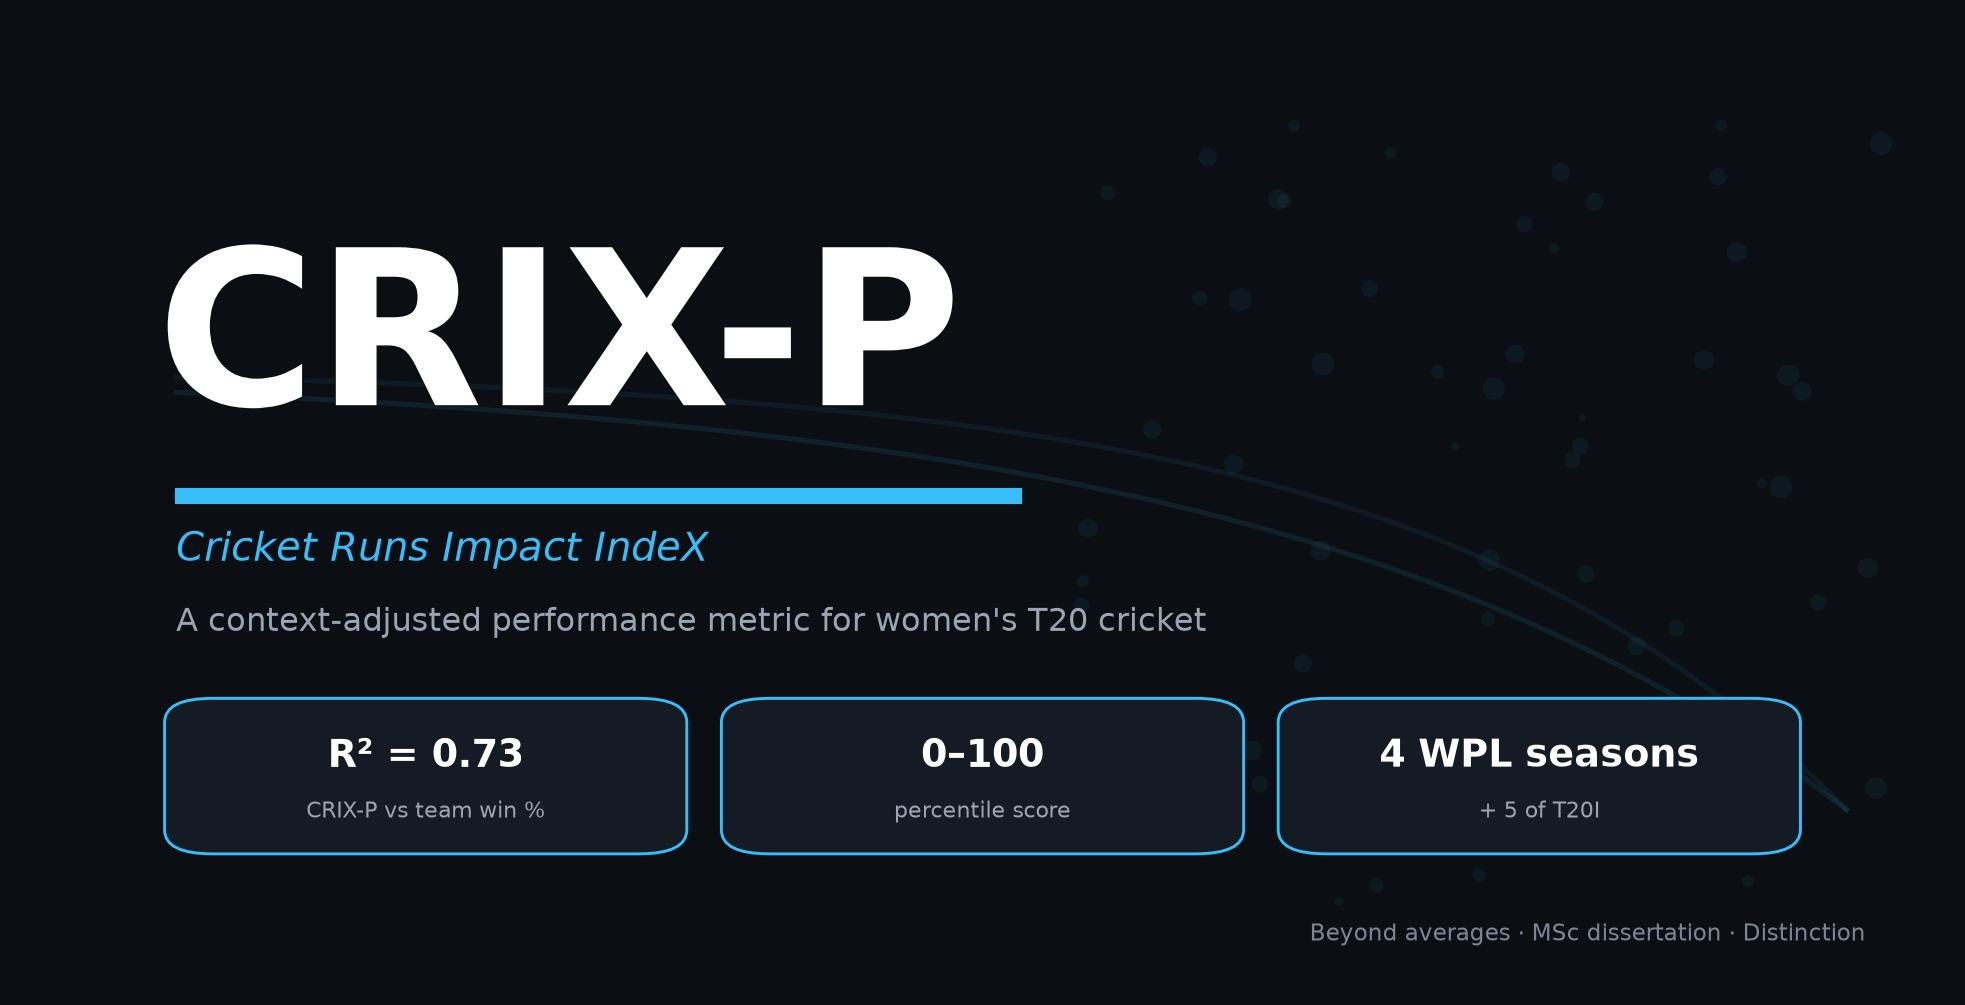
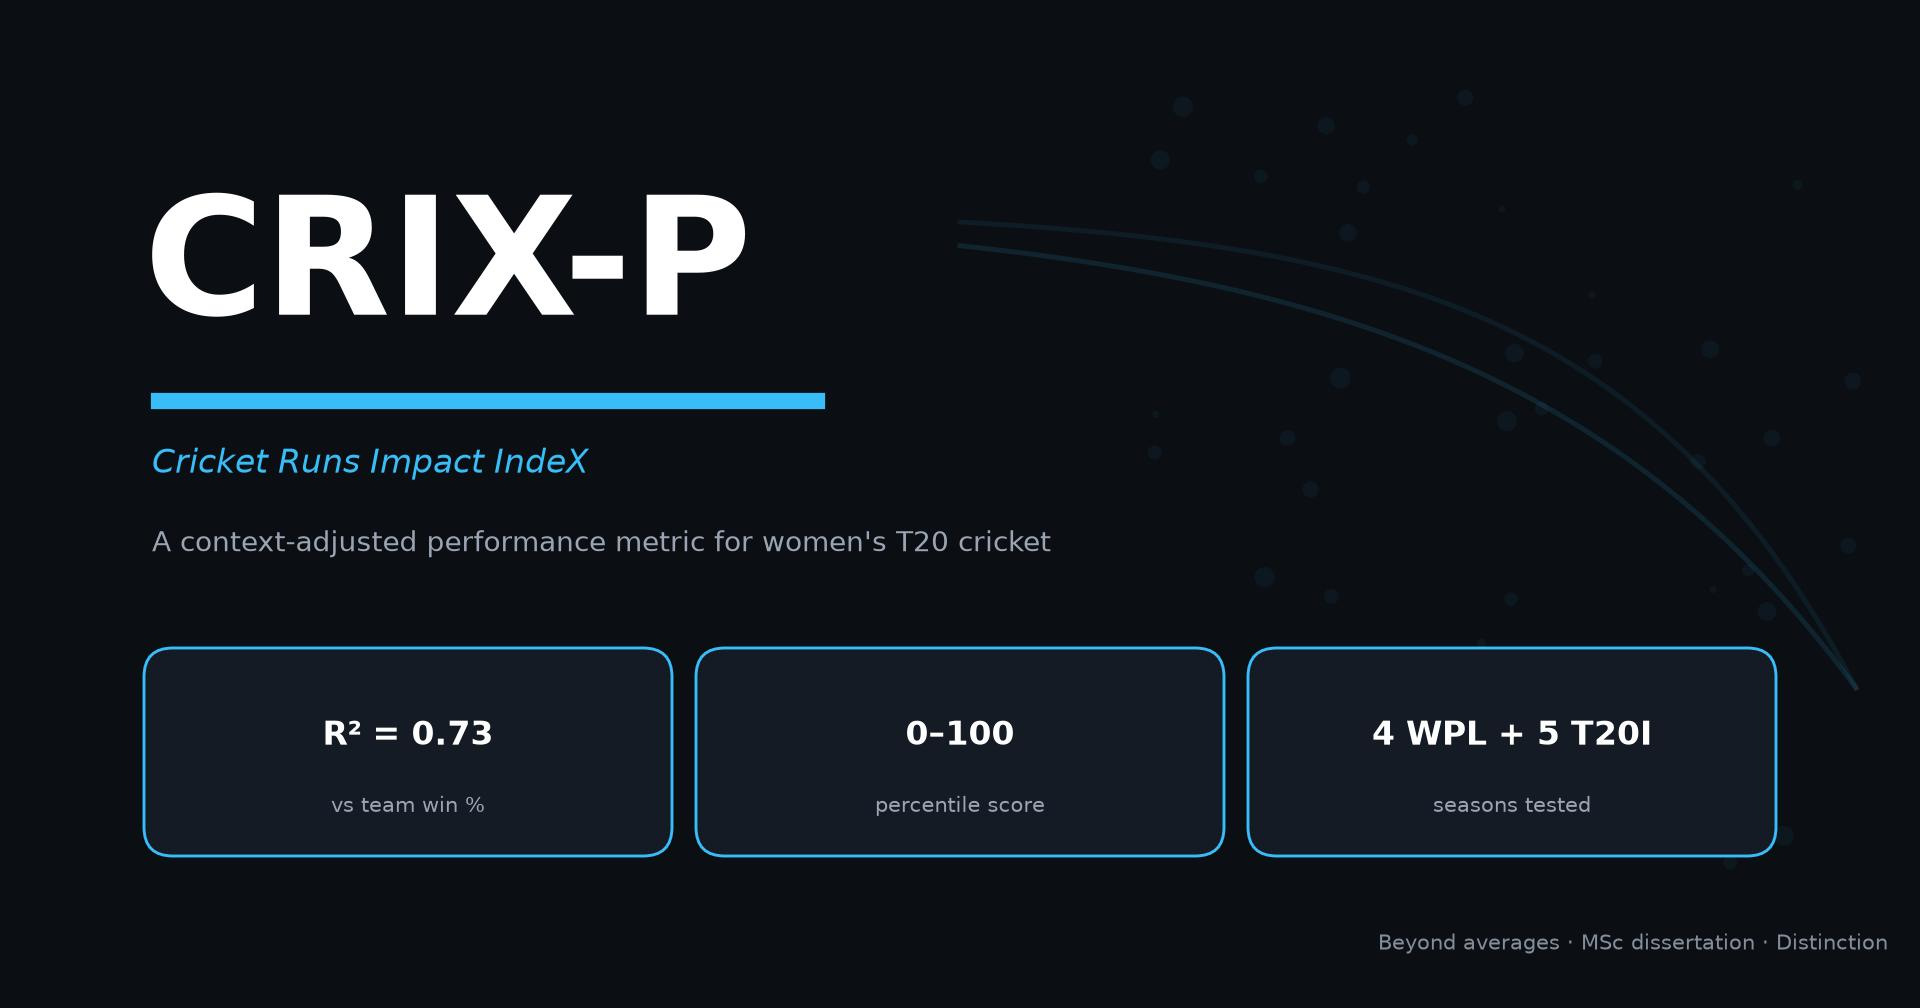
CRIX-P post: add dissertation figures, expand Prendergast story, fix cover clipping

diff --git a/site/content/cricket/crix-p-context-adjusted-cricket-metric.md b/site/content/cricket/crix-p-context-adjusted-cricket-metric.md
@@ -58,6 +58,12 @@ Wickets get the same treatment, and this is where it gets fun. A wicket isn't "a
 
 The model puts real numbers on that: in the WPL data, an early wicket cost about **12 runs** of expected total, and that fell to **under 3 runs** by the final overs. A bowling average treats all of those as one wicket. CRIX-P treats a top-order scalp in the 4th over as the far bigger deal it actually is.
 
+<figure class="chart-figure">
+  <img src="/charts/cricket/crixp_wicket_cost.png" alt="Bar chart of the average resource-adjusted run value of a wicket by over in the WPL. It falls steadily from about 12.3 runs in the first over to about 2 runs in the 20th, coloured by powerplay, middle and death phases.">
+  <figcaption>What a wicket is really worth, over by over. A dismissal in the powerplay costs four to six times more expected runs than one at the death, yet a bowling average counts them all the same.
+  <span class="chart-source">CRIX-P, all four WPL seasons pooled.</span></figcaption>
+</figure>
+
 ## Being good versus being decisive
 
 Run value tells you how *well* someone played. It doesn't quite tell you how much they *mattered*. A brilliant cameo in a game that's already lost is high quality but low impact.
@@ -65,6 +71,14 @@ Run value tells you how *well* someone played. It doesn't quite tell you how muc
 So I added a second number: **win probability added**, again lifted from baseball. For every ball, how much did the batting team's chance of winning go up or down? A single in the last over of a tied chase can be worth a mountain of win probability; the same single in a rout is worth almost nothing. This is how CRIX-P rewards players who show up in the moments that decide matches.
 
 Two numbers, then: **quality** (how good, per ball, in context) and **WPA** (how much it moved real games). They measure genuinely different things, which is the point.
+
+For the win-probability engine to be trustworthy, its predicted win chance has to match what actually happens. It does: when I line the model's predicted probability against the real win rate across hundreds of match situations, they track each other closely, in both innings.
+
+<figure class="chart-figure">
+  <img src="/charts/cricket/crixp_wp_calibration.png" alt="Two calibration plots, first and second innings, showing the model's fitted win-probability curve against the empirical win rate across score ratios. The orange empirical points hug the blue fitted S-curve in both panels.">
+  <figcaption>The win-probability model against reality. The curve is the model; the dots are what actually happened. When the model says 70%, teams won about 70% of the time.
+  <span class="chart-source">CRIX-P win-probability calibration, fitted across five women's T20 competitions.</span></figcaption>
+</figure>
 
 ## Don't get fooled by small samples
 
@@ -90,17 +104,37 @@ A clever formula proves nothing on its own. So I put CRIX-P through a five-part 
 
 **It tracks winning, strongly.** Add up a team's CRIX-P and line it against how often that team actually won: an R-squared of **0.73** in the WPL, beating a traditional strike-rate-and-economy model (0.63). In the international data it hit 0.90. For a player metric, tracking team success that tightly is about the best face-check you can ask for.
 
+<figure class="chart-figure">
+  <img src="/charts/cricket/crixp_win_pct.png" alt="Horizontal bar chart of R-squared for explaining team win percentage. CRIX-P tops it at about 0.73, above a combined batting strike rate and bowling economy model (0.63), bowling economy alone (0.56), and single traditional stats lower down.">
+  <figcaption>How well each metric explains team win percentage in the WPL. CRIX-P's combined score beats every traditional measure, including a model that uses batting strike rate and bowling economy together.
+  <span class="chart-source">CRIX-P vs traditional baselines, WPL team-seasons.</span></figcaption>
+</figure>
+
 **It passes the eye test.** The players the metric crowns are the players the sport already crowns. Across four WPL seasons, the official Player-of-the-Series winners all landed near the very top of their groups: Nat Sciver-Brunt 1st, Sophie Devine 1st, Hayley Matthews 2nd. If your fancy metric had those names buried in mid-table, you'd know something was broken.
 
 **But it's noisy, and I say so.** Split a season's data in half at random and the two halves only agree modestly (reliability around 0.3). T20 seasons are short, a handful of big deliveries move a score a lot, and bowling is especially jumpy year to year. CRIX-P catches real signal, but with real noise on top. That's exactly why the reliability label exists, and why I pitch this as a flashlight for finding players worth a closer look, not a final verdict.
 
 ## The player it found: Orla Prendergast
 
-My favourite result isn't a number, it's a name. Orla Prendergast, an Ireland all-rounder, was nowhere near the top of the 2024 run-scoring or wicket charts. On the traditional leaderboards she's easy to miss.
+My favourite result isn't a number, it's a name. Orla Prendergast is an Ireland all-rounder, 22 years old in 2024, playing for a team that doesn't get much airtime and isn't among the Test nations. If you scanned the 2024 run charts or wicket charts for the women's international year, you'd skim right past her. The volume just isn't eye-catching when your side plays fewer, lower-profile fixtures.
 
-On CRIX-P, she came out at the **top for both batting and bowling.** Why? Because her contributions came in moments that mattered, including 80 off 51 and two wickets in Ireland's first ever T20I win over England. A context-aware metric sees the value in that. A run tally doesn't.
+CRIX-P saw her differently. Among all T20I top-order batters in 2024 she ranked **3rd**, and among all T20I bowlers she ranked **7th**. Top-ten in the world on *both* sides of the ball, in the same year.
 
-That's the whole pitch for CRIX-P in one player: it surfaces the people whose real influence hides behind modest-looking totals. In women's cricket especially, where analytical coverage is thin and talent can go unseen, a tool that points a scout toward "look harder at her" feels genuinely useful.
+<figure class="chart-figure">
+  <img src="/charts/cricket/crixp_t20i_batting_2024.png" alt="CRIX-P leaderboard for 2024 T20I top-order batters. Smriti Mandhana and Alyssa Healy lead; Orla Prendergast is third on 95.9, flagged medium reliability on 194 balls.">
+  <figcaption>2024 T20I top-order batters by CRIX-P. Prendergast (95.9) sits third, behind only Mandhana and Healy, well above far more famous names.
+  <span class="chart-source">CRIX-P, Women's T20I 2024.</span></figcaption>
+</figure>
+
+<figure class="chart-figure">
+  <img src="/charts/cricket/crixp_t20i_bowling_2024.png" alt="CRIX-P leaderboard for 2024 T20I bowlers. Sarah Glenn tops it; Orla Prendergast is seventh on 96.6.">
+  <figcaption>The same year's T20I bowlers. Prendergast (96.6) is seventh, so she's elite with the ball as well as the bat.
+  <span class="chart-source">CRIX-P, Women's T20I 2024.</span></figcaption>
+</figure>
+
+Why does the metric rate her so highly when the raw tallies don't? Because her best cricket came in the biggest moments. In 2024 she made **80 off 51 and took two wickets in Ireland's first ever T20I win over England**, a genuine giant-killing, plus key contributions in wins over Sri Lanka and a clean sweep of Bangladesh. Those are high-leverage performances against strong opposition, exactly the kind of value that a run tally flattens and a context-aware metric rewards.
+
+Now, the honest asterisk: she's on **medium reliability**, because those scores rest on fewer balls than a Mandhana or a Healy gets in a busy international season. CRIX-P shows you that caveat rather than hiding it. But that's the whole pitch for the metric in one player: it points a scout toward "look harder at her," and in women's cricket, where coverage is thin and talent from smaller nations can go unseen, that nudge is genuinely worth something.
 
 ## Where it falls short
 
